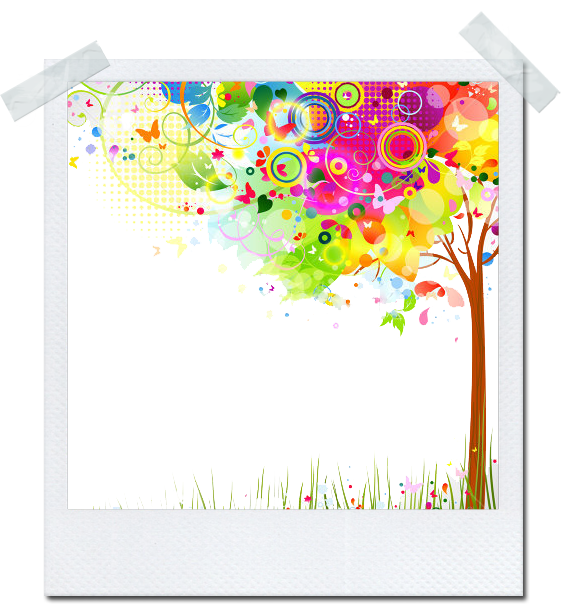
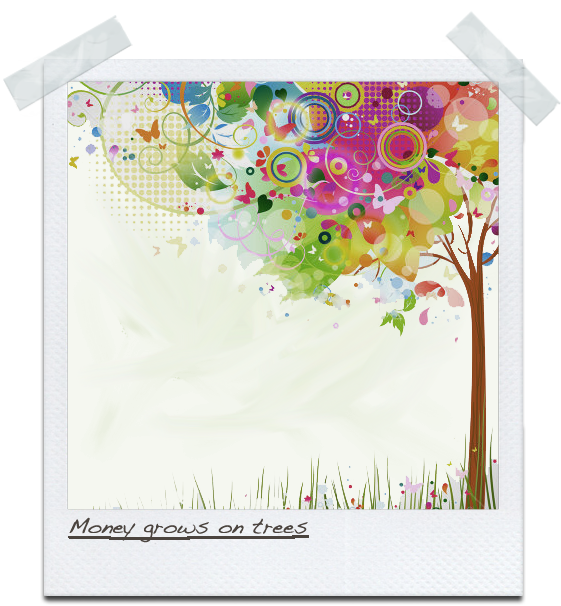
Made photo less stark based on artistic feedback, added a few more elements

diff --git a/app/assets/stylesheets/application.css b/app/assets/stylesheets/application.css
@@ -37,3 +37,10 @@ body {
 
 }
 
+.money {
+    width: 125px;
+    height: 45px !important;
+    font-size: 23px !important;
+    text-align: center;
+}
+
